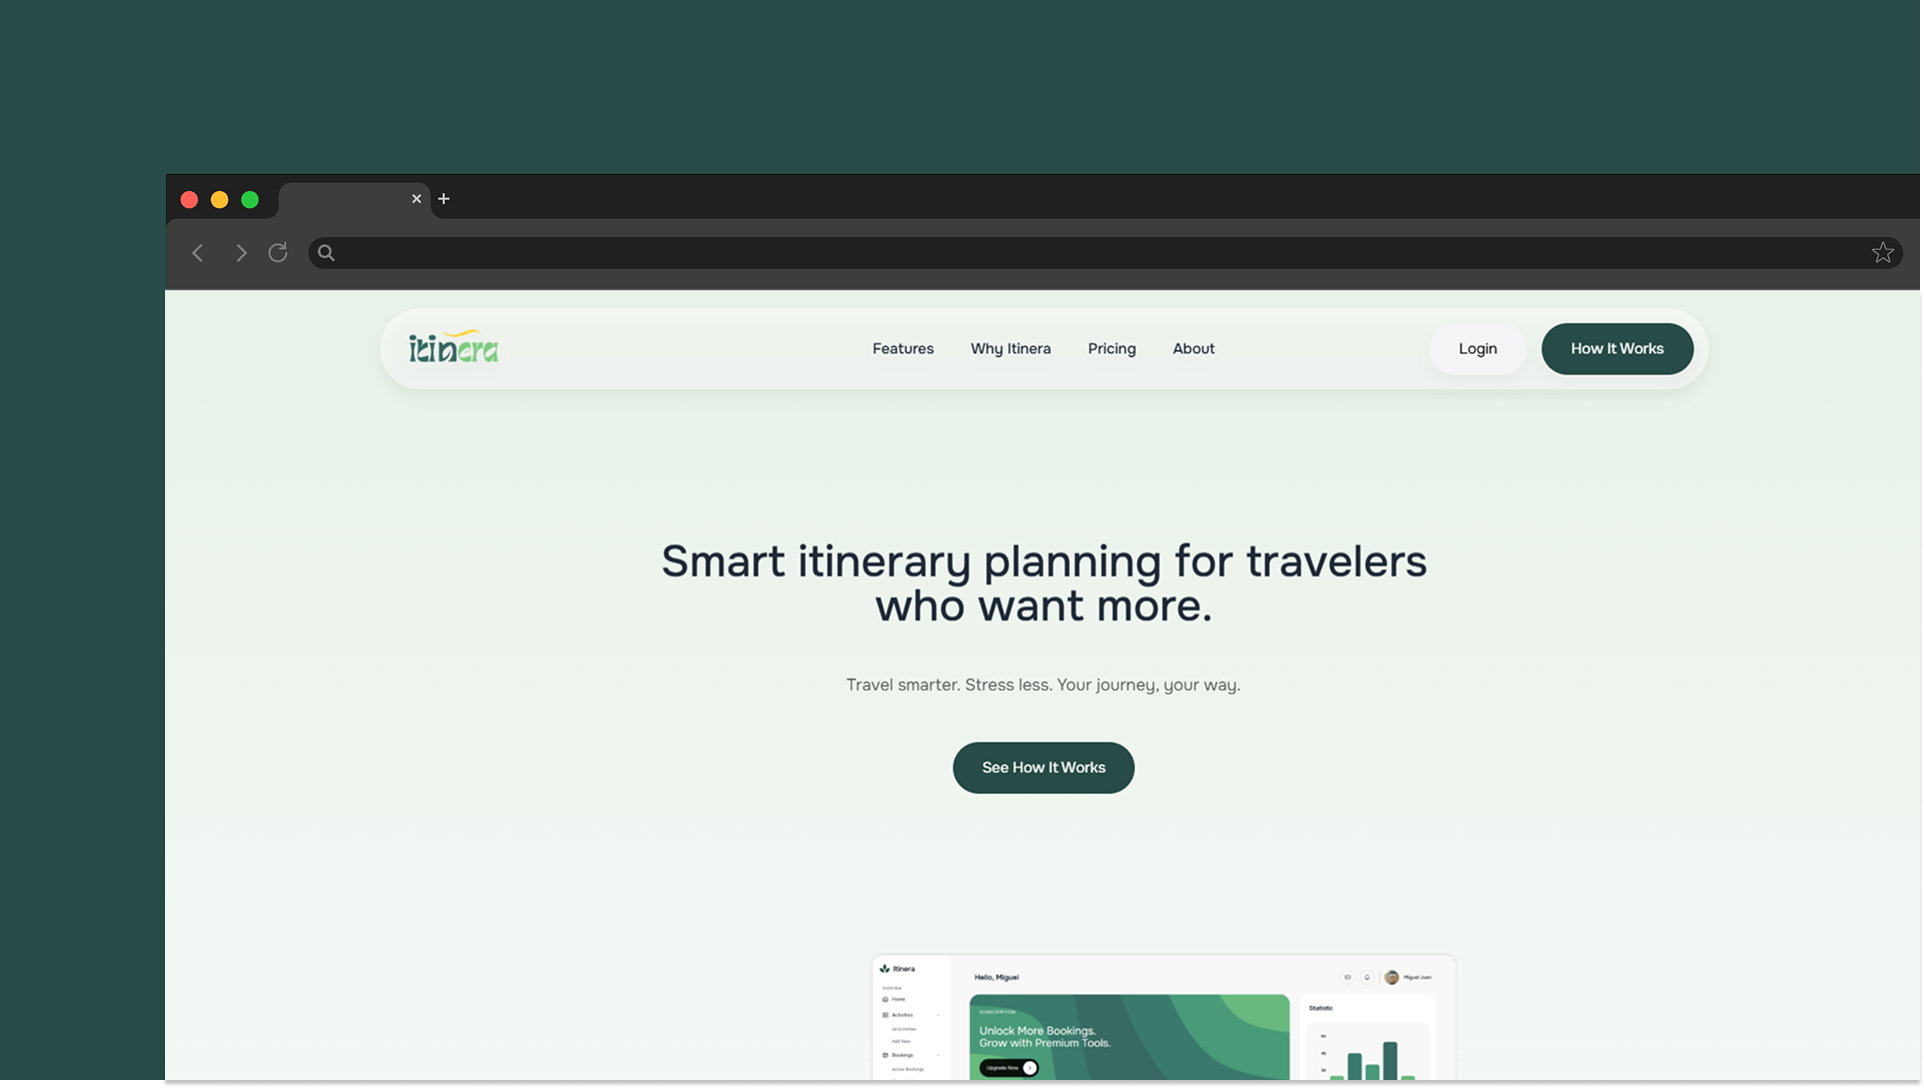
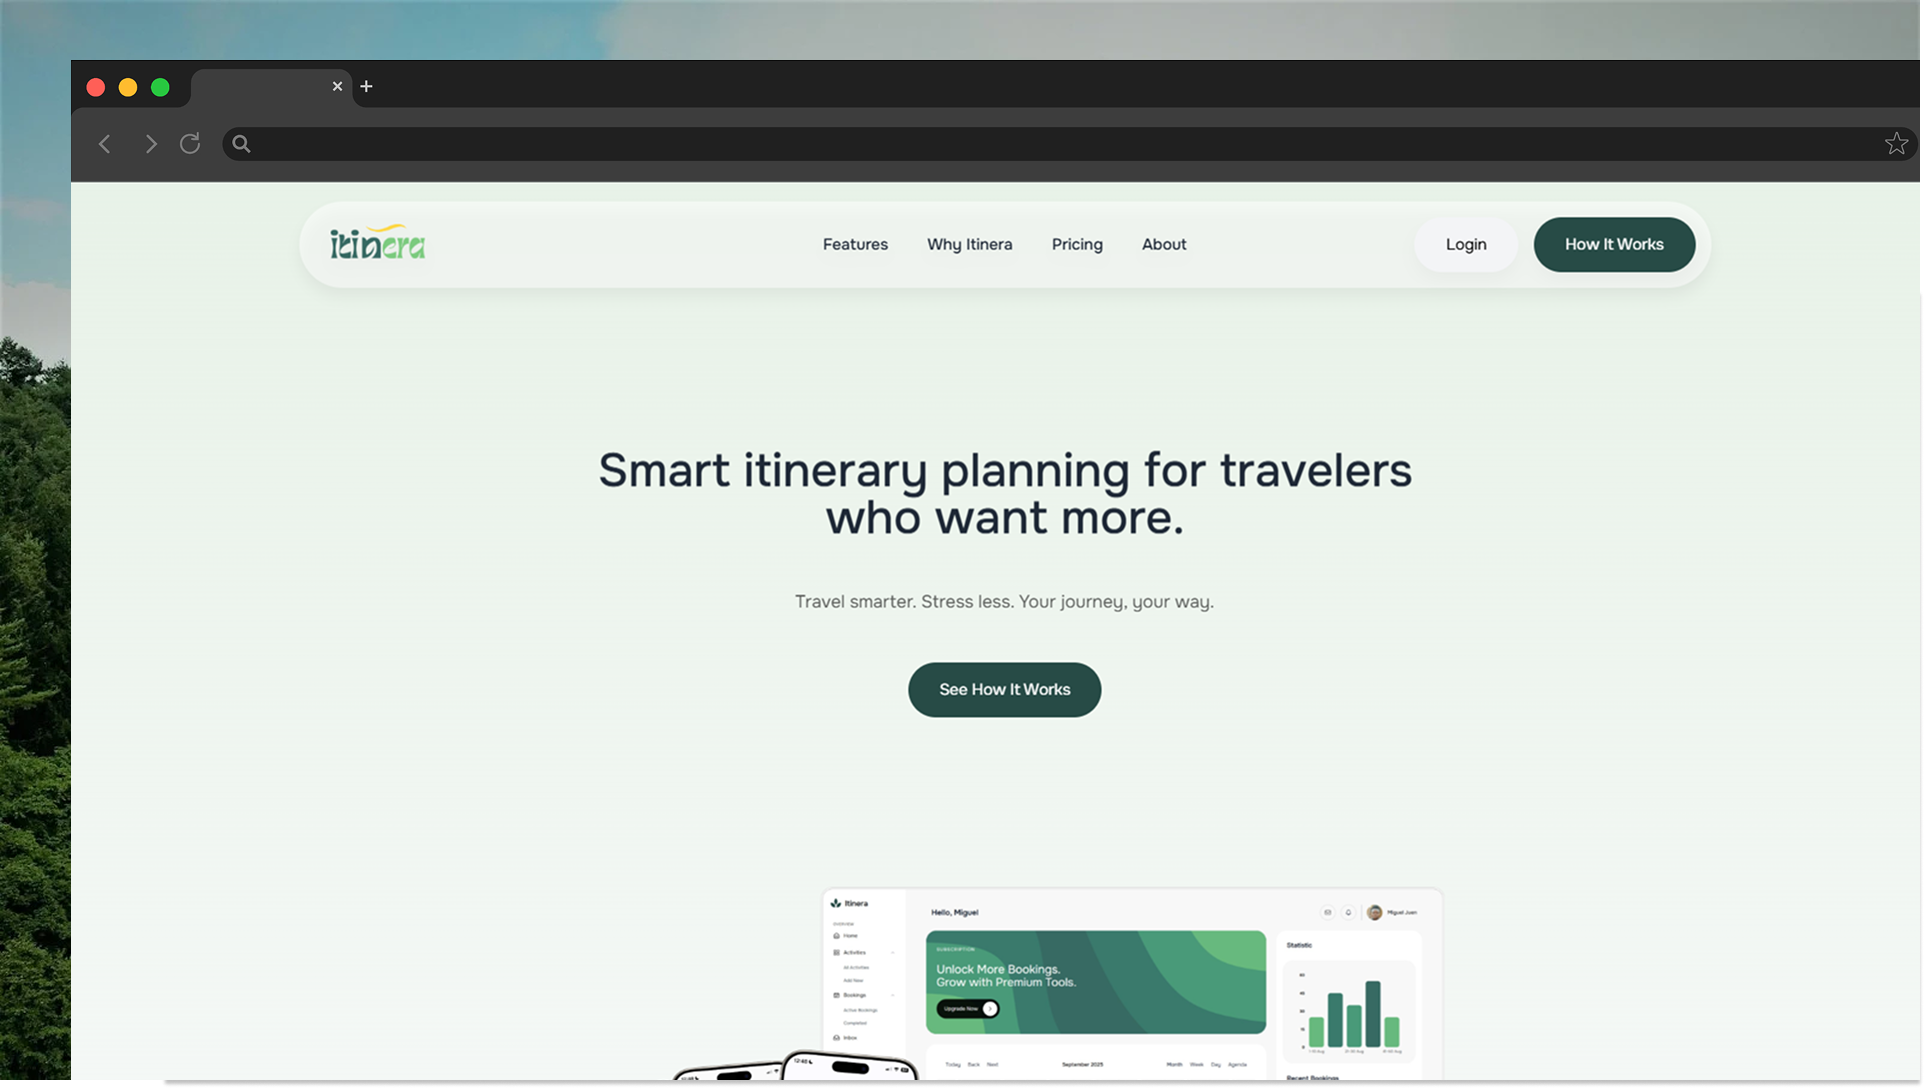
blur image

diff --git a/src/sections/works.jsx b/src/sections/works.jsx
@@ -24,12 +24,12 @@ export default function Works() {
         </p>
 
         {/* Works */}
-        <div className="w-full flex flex-col gap-12 sm:gap-16 lg:gap-24">
+        <div className="w-full py-12 ">
           <div id="projects"></div>
 
           {/* Project 1 */}
-          <Link to="/project/1" className="w-full flex flex-col group">
-            <div className="relative w-full aspect-[16/9] bg-white/5 overflow-hidden cursor-pointer">
+          <Link to="/project/1" className="w-full flex flex-col group mb-12">
+            <div className="relative rounded-xl w-full aspect-[16/9] bg-white/5 overflow-hidden cursor-pointer">
               <img
                 src="/img2.png"
                 alt=""
@@ -39,8 +39,8 @@ export default function Works() {
 
             <div className="flex flex-col sm:flex-row justify-between items-start sm:items-center gap-2 sm:gap-4 mt-4 sm:mt-6">
               <div>
-                <h1 className="text-xl  lg:text-2xl">Itinera</h1>
-                <p className="text-xl text-gray">
+                <h1 className="text-xl">Itinera</h1>
+                <p className="text-lg text-gray">
                   Experiential tourism made easy
                 </p>
               </div>
@@ -49,45 +49,50 @@ export default function Works() {
             </div>
           </Link>
 
-          {/* Project 2 */}
-          <Link to="/project/2" className="w-full flex flex-col group">
-            <div className="relative w-full aspect-[16/9] bg-white/5 overflow-hidden cursor-pointer">
-              <img
-                src="/img1.png"
-                alt=""
-                className="w-full h-full object-cover transition-transform duration-300 group-hover:scale-[1.01]"
-              />
-            </div>
-
-            <div className="flex flex-col sm:flex-row justify-between items-start sm:items-center gap-2 sm:gap-4 mt-4 sm:mt-6">
-              <div>
-                <h1 className="text-xl lg:text-2xl">On The Go</h1>
-                <p className="text-xl text-gray">Book your next ride</p>
+          <div className="flex flex-col lg:flex-row gap-12  ">
+            {/* Project 2 */}
+            <Link to="/project/2" className="w-full flex flex-col group">
+              <div className="relative rounded-xl w-full aspect-[16/9] lg:aspect-[4/3]  bg-white/5 overflow-hidden cursor-pointer">
+                <img
+                  src="/img1.png"
+                  alt=""
+                  className="w-full h-full object-cover transition-transform duration-300 group-hover:scale-[1.01]"
+                />
               </div>
 
-              <p className="text-xl text-gray">2025</p>
-            </div>
-          </Link>
+              <div className="flex flex-col sm:flex-row justify-between items-start sm:items-center gap-2 sm:gap-4 mt-4 sm:mt-6">
+                <div>
+                  <h1 className="text-xl">On The Go</h1>
+                  <p className="text-lg text-gray">Book your next ride</p>
+                </div>
 
-          {/* Project 3 */}
-          <Link to="/project/3" className="w-full flex flex-col group">
-            <div className="relative w-full aspect-[16/9] bg-white/5 overflow-hidden cursor-pointer">
-              <img
-                src="/img3.png"
-                alt=""
-                className="w-full h-full object-cover transition-transform duration-300 group-hover:scale-[1.01]"
-              />
-            </div>
+                <p className="text-xl text-gray">2025</p>
+              </div>
+            </Link>
 
-            <div className="flex flex-col sm:flex-row justify-between items-start sm:items-center gap-2 sm:gap-4 mt-4 sm:mt-6">
-              <div>
-                <h1 className="text-xl lg:text-2xl">ShareBasket</h1>
-                <p className="text-xl text-gray">Shared shopping made simple</p>
+            {/* Project 3 */}
+            <Link to="/project/3" className="w-full flex flex-col group">
+              <div className="relative rounded-xl w-full aspect-[16/9] lg:aspect-[4/3] bg-white/5 overflow-hidden cursor-pointer">
+                <img
+                  src="/img3.png"
+                  alt=""
+                  className="w-full h-full object-cover transition-transform duration-300 group-hover:scale-[1.01]"
+                  style={{ objectPosition: "left 20% top 10%" }}
+                />
               </div>
 
-              <p className="text-xl text-gray">2025</p>
-            </div>
-          </Link>
+              <div className="flex flex-col sm:flex-row justify-between items-start sm:items-center gap-2 sm:gap-4 mt-4 sm:mt-6">
+                <div>
+                  <h1 className="text-xl">ShareBasket</h1>
+                  <p className="text-lg text-gray">
+                    Shared shopping made simple
+                  </p>
+                </div>
+
+                <p className="text-xl text-gray">2025</p>
+              </div>
+            </Link>
+          </div>
         </div>
       </section>
     </>

diff --git a/src/sections/hero.jsx b/src/sections/hero.jsx
@@ -1,14 +1,22 @@
-import React from "react";
-
+import React, { useState } from "react";
 import { motion } from "framer-motion";
 export default function Hero() {
+  const [loaded, setLoaded] = useState(false);
+
   return (
     <>
       {/* Background image */}
       <img
+        src="/bg3-blur.png"
+        className="absolute inset-0 w-full h-full object-cover -z-10 blur-xl scale-105"
+      />
+
+      <img
         src="/bg3.svg"
-        className="absolute inset-0 w-full h-full object-cover -z-10"
-        alt=""
+        onLoad={() => setLoaded(true)}
+        className={`absolute inset-0 w-full h-full object-cover -z-10 transition-opacity duration-700 ${
+          loaded ? "opacity-100" : "opacity-0"
+        }`}
       />
 
       <section className="flex flex-col items-start justify-center h-dvh gap-8   pb-48 lg:pb-24 ">

diff --git a/src/App.jsx b/src/App.jsx
@@ -12,7 +12,7 @@ export default function App() {
   return (
     <>
       {/* Main container */}
-      <div className="max-w-6xl mx-auto px-4 md:px-6 lg:px-8">
+      <div className="max-w-7xl mx-auto px-4 md:px-6 lg:px-8">
         {/* Main Sections */}
         <Routes>
           {/* Home page */}
